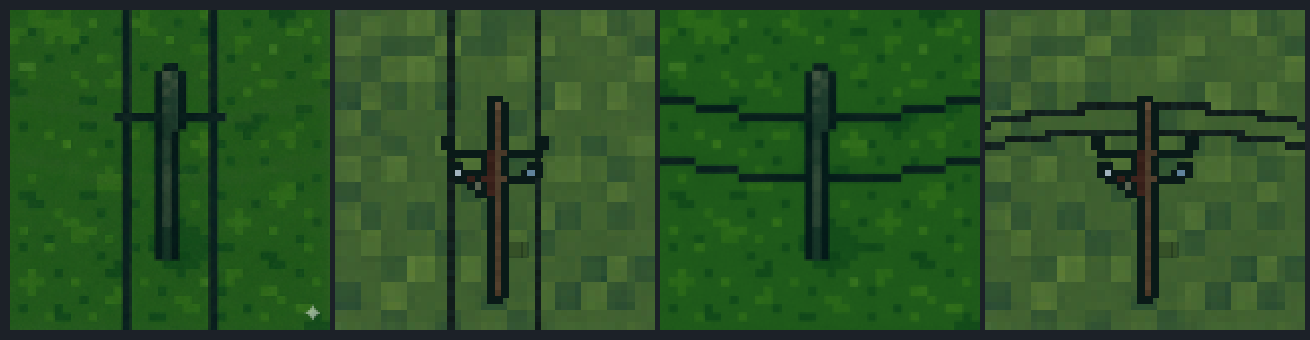
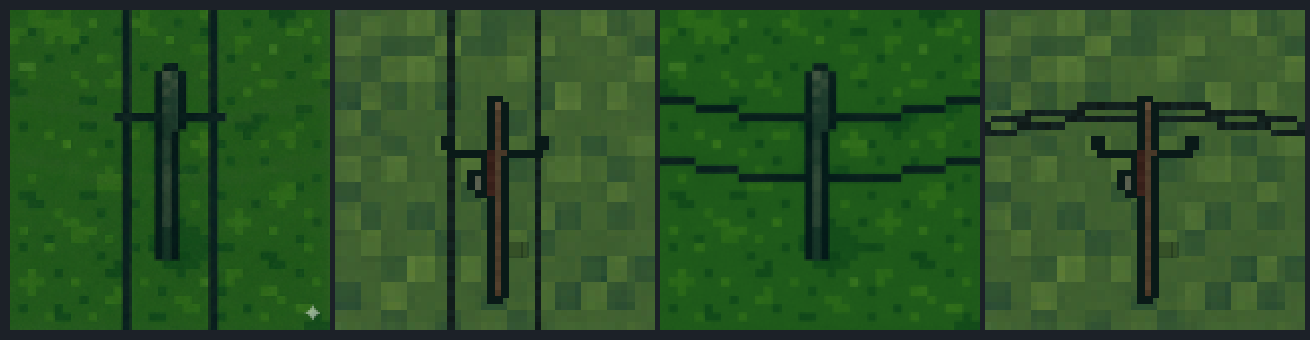
refactor(studio): single-crossarm hydro pole
Drop the second crossarm — both EW wires hang from the one arm's two
ends, drawn with a small vertical gap so the near wire reads in front
(same height in reality, separated across the arm). Simpler silhouette
on both orientations; packed sprites and demo refreshed.

Changed region(s): [[0.7328, 0.3235, 1.0, 0.4412], [0.8244, 0.4706, 0.916, 0.5588], [0.3359, 0.4706, 0.4275, 0.5588]]

diff --git a/studio/scenes/pole.py b/studio/scenes/pole.py
@@ -24,16 +24,14 @@ def build(mats):
     # enough (0.17 ~ 2 art cells) that the wood material shows between its
     # ink outlines. Wood role — shaded two-tone by the studio sun.
     box(mats, 'tie', (0, 0, 1.35), (0.17, 0.17, 2.7))
-    # Double crossarms (classic hydro), oriented perpendicular to the camera
-    # azimuth so they read horizontal. Their heights project to the two EW
-    # wire anchor lines (0.894*z - overlay offset): z 2.0 -> +0.79, z 1.67 ->
-    # +0.49 — so BOTH sagging wires hang from an arm, and the NS wires meet
-    # the upper arm's tips. Porcelain insulators (trim) mark the attachments.
-    for z, length in ((2.0, 1.15), (1.67, 0.95)):
-        box(mats, 'tie', (0, 0, z), (length, 0.09, 0.08), (0, 0, math.radians(135)))
-        for side in (1, -1):
-            tip = (length / 2) * side
-            box(mats, 'trim', (tip * -0.707, tip * 0.707, z + 0.11), (0.12, 0.12, 0.13))
+    # Single crossarm, oriented perpendicular to the camera azimuth so it
+    # reads horizontal. Both wires hang from its two ends — its height
+    # projects to the wire anchor line (0.894*z - overlay offset: z 2.0 ->
+    # +0.79). Porcelain insulators (trim) mark the attachment points.
+    box(mats, 'tie', (0, 0, 2.0), (1.15, 0.09, 0.08), (0, 0, math.radians(135)))
+    for side in (1, -1):
+        tip = 0.575 * side
+        box(mats, 'trim', (tip * -0.707, tip * 0.707, 2.11), (0.12, 0.12, 0.13))
     # Transformer can hanging right of the pole below the arm (grey).
     stub = 0.20
     box(mats, 'step', (stub * 0.707, -stub * 0.707, 1.62), (0.14, 0.14, 0.32))

diff --git a/studio/scenes/power.py b/studio/scenes/power.py
@@ -25,9 +25,9 @@ VARIANT = 'ns'
 WIRE_OFFSET = 0.56   # the pole's crossarm-tip gauge — wires attach there
 WIRE_W = 0.09
 SAG = 0.22           # catenary dip at the tile edge (elevation-view wires)
-EW_ANCHORS = (0.79, 0.49)  # wire heights at the pole — each matches one of
-                           # the pole's two crossarm heights, so both wires
-                           # visually hang from an arm
+EW_ANCHORS = (0.79, 0.64)  # both wires hang from the single crossarm's two
+                           # ends — same height in reality, drawn with a
+                           # small gap so the near wire reads in front
 
 
 def build(mats):
